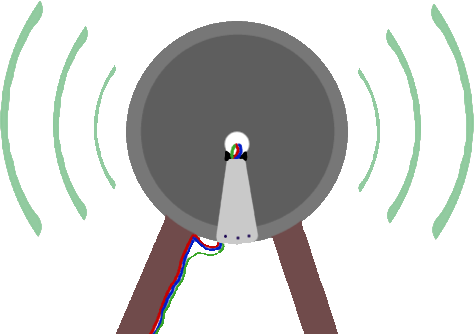
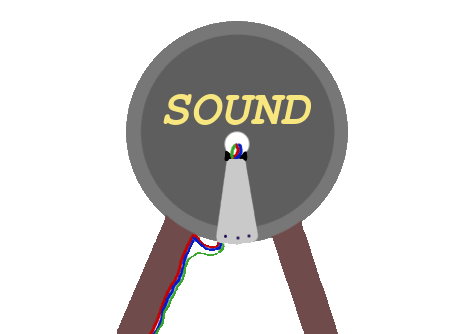
boton 3

diff --git a/sc_menu.js b/sc_menu.js
@@ -8,6 +8,8 @@ var sc_menu = new Phaser.Class({
         this.load.image('boton', 'assets/button.png')
         this.load.image('play', 'assets/boton_play.png')
         this.load.image('sound', 'assets/boton_sonido.png')
+        this.load.image('soundbars', 'assets/barras_sonido.png')
+        this.load.image('information', 'assets/solar_panel.png')
     },
     create(){
         this.input.mouse.disableContextMenu();
@@ -36,31 +38,25 @@ var sc_menu = new Phaser.Class({
         opcion2.on('pointerout', function() {
             opcion2.clearTint();
         });
+        var soundbars = this.add.sprite(game.config.width - 400, game.config.height - 160, 'soundbars');
         opcion2.on('pointerdown', ()=>{
-            this.scene.start('sc_play2')
+        if (soundbars.visible == false){
+            soundbars.visible = true
+        }
+        else{
+            soundbars.visible = false
+        }
         });
 
-        //OPCION EXPLICACION
-        var opcion3 = this.add.sprite(game.config.width / 2, game.config.height / 2 + 120, 'boton').setInteractive();
+        //OPCION EXPLICACION Y CREDITOS
+        var opcion3 = this.add.sprite(300, 600, 'information').setInteractive();
         opcion3.on('pointerover', function() {
-            opcion3.setTint(0x7878ff);
+            opcion3.setTint(0x828282);
         });
         opcion3.on('pointerout', function() {
             opcion3.clearTint();
         });
         opcion3.on('pointerdown', ()=>{
-            this.scene.start('sc_play2')
-        });
-
-        //OPCION CREDITOS
-        var opcion4 = this.add.sprite(game.config.width / 2, game.config.height / 2 + 180, 'boton').setInteractive();
-        opcion4.on('pointerover', function() {
-            opcion4.setTint(0x7878ff);
-        });
-        opcion4.on('pointerout', function() {
-            opcion4.clearTint();
-        });
-        opcion4.on('pointerdown', ()=>{
             this.scene.start('sc_play2')
         });
     }
